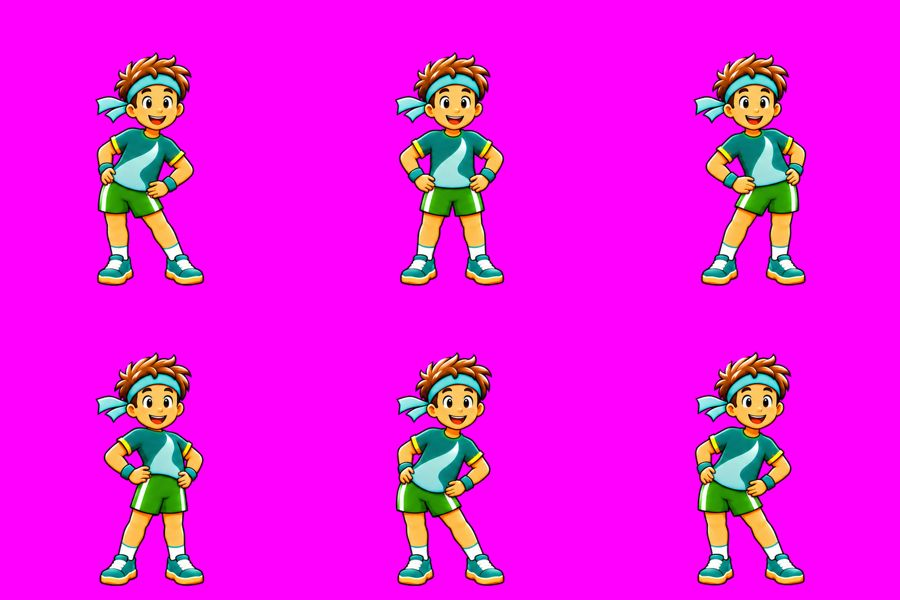
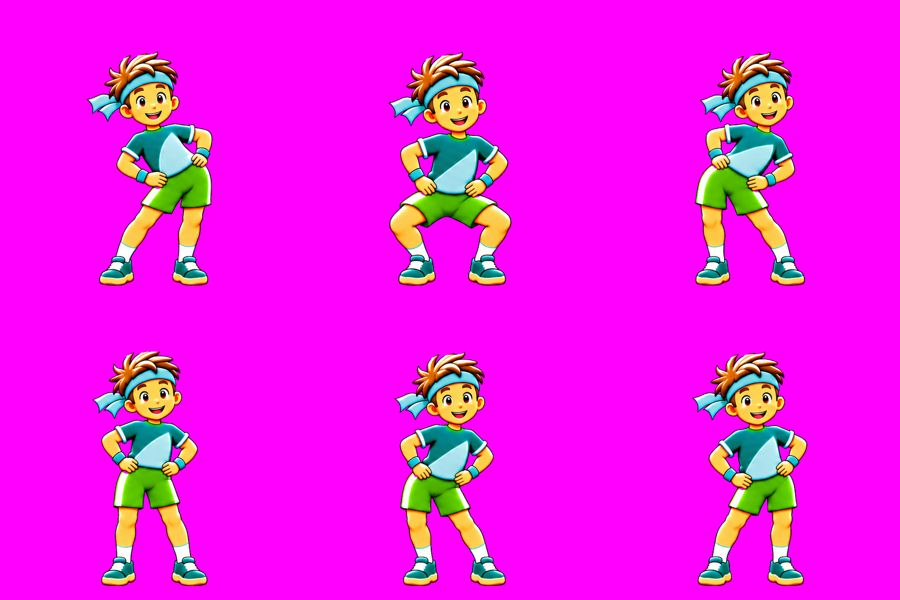
0.31.3: clean redrawn wu_hip_circles
Claude-Session: https://claude.ai/code/session_015MgUfxYvuaf2H4JGRA2gxD

diff --git a/web/sw.js b/web/sw.js
@@ -1,5 +1,5 @@
 // Offline-first service worker. VERSION is kept equal to version.json by scripts/bump-version.mjs (a unit test enforces it).
-const VERSION = '0.31.2';
+const VERSION = '0.31.3';
 const CACHE = `stepup-${VERSION}`;
 const SHELL = ['./', 'index.html', 'manifest.webmanifest', 'version.json', 'icon.svg', 'css/packs.css', 'css/app.css',
   'js/app.js', 'js/routePlan.js', 'js/planner.js', 'js/planApi.js', 'js/ui/mapScreen.js', 'js/ui/planner.js', 'js/theme-boot.js', 'js/util.js', 'js/i18n.js', 'js/native.js', 'js/icons.js', 'js/brand.js', 'js/brandData.js', 'js/iconData.js', 'js/geo.js', 'js/workout.js', 'js/metronome.js', 'js/cadence.js', 'js/audio.js', 'js/format.js', 'js/store.js', 'js/ui/home.js', 'js/plan.js', 'js/indicators.js', 'js/appVersion.js', 'js/art.js', 'js/voice.js', 'js/records.js', 'js/facts.js', 'js/actions.js', 'js/guide.js', 'js/strings08.js', 'js/strings09.js', 'js/strings10.js', 'js/strings11.js', 'js/appShare.js', 'js/changelog.js', 'js/ui/shareApp.js', 'js/ui/whatsnew.js', 'js/permissions.js', 'js/ui/permissions.js', 'js/characterData.js', 'js/puppetRig.js', 'js/ui/puppet.js', 'js/ui/character.js', 'art/character/walk.webp', 'art/character/run.webp', 'art/character/pose-idle.webp', 'art/character/pose-jump.webp', 'art/character/pose-cheer.webp', 'art/character/pose-wave.webp', 'art/character/pose-rest.webp', 'art/character/pose-stretch.webp', 'art/character/pose-medal.webp', 'art/character/pose-trophy.webp', 'art/character/pose-podium.webp', 'art/character/pose-point.webp', 'art/character/pose-think.webp', 'art/character/pose-sit.webp', 'art/character/pose-sleep.webp', 'art/character/pose-rain.webp', 'js/weatherAnim.js', 'js/weatherAnimData.js', 'js/ui/skynow.js', 'js/ui/hourdetail.js', 'js/ui/progress.js', 'js/ui/imap.js', 'js/ui/mapviewer.js', 'js/ui/marks.js', 'js/exercises.js', 'js/exerciseData.js', 'js/ui/exercises.js', 'js/strings12.js', 'js/ui/directions.js', 'js/nav.js', 'js/ui/weather.js', 'art/weather-anim/clear_day.webp', 'art/weather-anim/clear_night.webp', 'art/weather-anim/drizzle_day.webp', 'art/weather-anim/fog_day.webp', 'art/weather-anim/freezing_rain_day.webp', 'art/weather-anim/hail_day.webp', 'art/weather-anim/heavy_rain_day.webp', 'art/weather-anim/mostly_clear_day.webp', 'art/weather-anim/mostly_clear_night.webp', 'art/weather-anim/overcast_day.webp', 'art/weather-anim/partly_cloudy_day.webp', 'art/weather-anim/partly_cloudy_night.webp', 'art/weather-anim/rain_day.webp', 'art/weather-anim/snow_day.webp', 'art/weather-anim/thunderstorm_day.webp', 'js/ui/guide.js', 'art/workout/banner-afternoon-dark.svg', 'art/workout/banner-afternoon-light.svg', 'art/workout/banner-evening-dark.svg', 'art/workout/banner-evening-light.svg', 'art/workout/banner-morning-dark.svg', 'art/workout/banner-morning-light.svg', 'art/workout/banner-night-dark.svg', 'art/workout/banner-night-light.svg', 'art/workout/card-forest-dark.svg', 'art/workout/card-forest-light.svg', 'art/workout/card-ocean-dark.svg', 'art/workout/card-ocean-light.svg', 'art/workout/card-sunrise-dark.svg', 'art/workout/card-sunrise-light.svg', 'art/workout/count-1-dark.svg', 'art/workout/count-1-light.svg', 'art/workout/count-2-dark.svg', 'art/workout/count-2-light.svg', 'art/workout/count-3-dark.svg', 'art/workout/count-3-light.svg', 'art/workout/count-4-dark.svg', 'art/workout/count-4-light.svg', 'art/workout/count-5-dark.svg', 'art/workout/count-5-light.svg', 'art/workout/count-go-dark.svg', 'art/workout/count-go-light.svg', 'art/workout/hint-double-tap-dark.svg', 'art/workout/hint-double-tap-light.svg', 'art/workout/hint-volume-keys-dark.svg', 'art/workout/hint-volume-keys-light.svg', 'js/ui/workoutShare.js', 'js/shareCard.js', 'js/metrics.js', 'js/gpx.js', 'js/daypart.js', 'js/challenge.js', 'art/celebrate/avatar-frame-dark.svg', 'art/celebrate/avatar-frame-light.svg', 'art/celebrate/confetti-circle-dark.svg', 'art/celebrate/confetti-circle-light.svg', 'art/celebrate/confetti-curl-dark.svg', 'art/celebrate/confetti-curl-light.svg', 'art/celebrate/confetti-rectangle-dark.svg', 'art/celebrate/confetti-rectangle-light.svg', 'art/celebrate/confetti-star-dark.svg', 'art/celebrate/confetti-star-light.svg', 'art/celebrate/confetti-triangle-dark.svg', 'art/celebrate/confetti-triangle-light.svg', 'art/celebrate/distance-record-dark.svg', 'art/celebrate/distance-record-light.svg', 'art/celebrate/fastest-kilometre-dark.svg', 'art/celebrate/fastest-kilometre-light.svg', 'art/celebrate/forest-dark.svg', 'art/celebrate/forest-light.svg', 'art/celebrate/laurel-dark.svg', 'art/celebrate/laurel-light.svg', 'art/celebrate/longest-streak-dark.svg', 'art/celebrate/longest-streak-light.svg', 'art/celebrate/medal-dark.svg', 'art/celebrate/medal-light.svg', 'art/celebrate/most-workouts-week-dark.svg', 'art/celebrate/most-workouts-week-light.svg', 'art/celebrate/ocean-dark.svg', 'art/celebrate/ocean-light.svg', 'art/celebrate/pace-record-dark.svg', 'art/celebrate/pace-record-light.svg', 'art/celebrate/podium-floor-dark.svg', 'art/celebrate/podium-floor-light.svg', 'art/celebrate/podium-steps-dark.svg', 'art/celebrate/podium-steps-light.svg', 'art/celebrate/rays-dark.svg', 'art/celebrate/rays-light.svg', 'art/celebrate/ribbon-dark.svg', 'art/celebrate/ribbon-light.svg', 'art/celebrate/sunrise-dark.svg', 'art/celebrate/sunrise-light.svg', 'art/celebrate/trophy-dark.svg', 'art/celebrate/trophy-light.svg', 'js/podiumCard.js', 'js/ui/podium.js', 'js/mapView.js', 'js/ui/maptiles.js', 'js/backup.js', 'js/ui/backup.js', 'art/badges/almost-distance-dark.svg', 'art/badges/almost-distance-light.svg', 'art/badges/almost-record-dark.svg', 'art/badges/almost-record-light.svg', 'art/badges/faster-last-dark.svg', 'art/badges/faster-last-light.svg', 'art/badges/fastest-km-dark.svg', 'art/badges/fastest-km-light.svg', 'art/badges/new-record-dark.svg', 'art/badges/new-record-light.svg', 'art/badges/passed-distance-dark.svg', 'art/badges/passed-distance-light.svg', 'art/onboarding/caught-up-dark.svg', 'art/onboarding/caught-up-light.svg', 'art/onboarding/no-plan-dark.svg', 'art/onboarding/no-plan-light.svg', 'art/onboarding/no-routes-dark.svg', 'art/onboarding/no-routes-light.svg', 'art/onboarding/no-workouts-dark.svg', 'art/onboarding/no-workouts-light.svg', 'art/onboarding/offline-dark.svg', 'art/onboarding/offline-light.svg', 'art/onboarding/welcome-dark.svg', 'art/onboarding/welcome-light.svg', 'art/weather/clear-dark.svg', 'art/weather/clear-light.svg', 'art/weather/cloudy-dark.svg', 'art/weather/cloudy-light.svg', 'art/weather/cold-dark.svg', 'art/weather/cold-light.svg', 'art/weather/hot-dark.svg', 'art/weather/hot-light.svg', 'art/weather/rain-dark.svg', 'art/weather/rain-light.svg', 'art/weather/windy-dark.svg', 'art/weather/windy-light.svg', 'js/update.js', 'js/strings07.js', 'js/ui/about.js', 'js/strings06.js', 'js/ui/plan.js', 'js/schedule.js', 'js/widgetData.js', 'js/syncNative.js', 'js/strings05.js', 'js/route.js', 'js/routeReco.js', 'js/strings04.js', 'js/ui/routes.js', 'js/ui/livemap.js', 'js/forecast.js', 'js/reco.js', 'js/weatherApi.js', 'js/strings03.js', 'js/ui/reco.js', 'js/stats.js', 'js/steps.js', 'js/effort.js', 'js/reminders.js', 'js/alerts.js', 'js/search.js', 'js/charts.js', 'js/reminderLoop.js', 'js/strings02.js', 'js/ui/dashboard.js', 'js/ui/alerts.js', 'js/ui/search.js', 'js/ui/notify.js', 'js/ui/settings.js', 'js/ui/history.js', 'js/ui/workout.js', 'js/ui/rhythm.js',

diff --git a/web/js/changelog.js b/web/js/changelog.js
@@ -1,5 +1,8 @@
 // "What is new", in the app's two languages: user-facing bullets only, newest first. docs/CHANGELOG.md is the developer copy (a unit test keeps the two in step).
 export const CHANGES = [
+  { v: '0.31.3',
+    en: ['Redrawn hip circles animation, with a clearer circle.'],
+    he: ['אנימציה מחודשת לסיבובי אגן, עם סיבוב ברור יותר.'] },
   { v: '0.31.2',
     en: ['Redrawn animations for the chest opener, ankle rolls and calf raises.'],
     he: ['אנימציות מחודשות לפתיחת החזה, לסיבובי קרסול ולהרמות תאומים.'] },

diff --git a/web/js/appVersion.js b/web/js/appVersion.js
@@ -1,2 +1,2 @@
 // The version of the code that is running (kept equal to version.json by scripts/bump-version.mjs; a unit test enforces it).
-export const APP_VERSION = '0.31.2';
+export const APP_VERSION = '0.31.3';

diff --git a/docs/CONTEXT.md b/docs/CONTEXT.md
@@ -6,8 +6,8 @@ Read this first in a new session. It says what the product is, where everything 
 **StepUp** (repo `ohadsam/distance_analyzer`): a walking and running tracker. One vanilla-JS web app (`web/`, no build step, no runtime dependencies) shipped as a **PWA** (GitHub Pages) and as a thin **Android WebView app** (`android/`, same `web/` folder as assets). Hebrew (RTL) is the default, English is chosen in Settings. No server, no account; data stays on the device. Branch `main` is the primary branch.
 Owner's standing rules live in `.claude/skills/release-checklist/SKILL.md` (section 0). Requests and their status: `docs/REQUESTS.md`. Plan: `docs/ROADMAP.md`.
 
-## Status (0.31.2)
-Done: **looping full-figure drawn animations for all 24 exercises (0.31.2; still weak: hip circles, a modest calf raise and chest), mark point, interactive maps everywhere (zoom, address search, measuring, km markers), turn-by-turn navigation with voice, written directions, progress bars, warm-up / cool-down exercises, effort chart with advice, broader global search (0.29.0)**, **a Weather card always on Home and tappable weather charts showing the hour's temperature / humidity / rain (0.28.0)**, **measuring starts when the run / walk really starts (movement detection), the weather screen with hour-by-hour humidity / rain for any place or route, animated charts (0.27.0)**, **animated weather pictures for the sky now (Home day card, Recommendations) from the illustrator's 15 animations (0.26.0)**, **steps counted all day by a quiet foreground service (the background alarm could never read the sensor) - 0.25.2, needs a phone to confirm**, **the steps widget refreshes by itself (every 15 min, on leaving the app, after restart or update) - 0.25.1, needs a phone to confirm**, **share sheet (WhatsApp, e-mail, share menu, copy) and a "what is new" window (0.25.0)**, **web app updates itself (fresh files for a new service worker, one automatic reload) (0.24.1)**, **permissions screen + start-up sheet, map / weather / planner on by default with automatic location, in-app update that installs over the app (0.24.0)**, **an illustrated character with walk / run strips and still poses (0.23.0)**, **Trail from the designer brief (10 poses, per-pose joint pivots) (0.22.0)**, **Trail V5 (15 connected poses) with the countdown and the guide (0.21.0)**, **Trail as an athlete (kit V3) on the start cards, welcome, summary and the user guide (0.20.0)**, **redesigned single-colour icons, Trail (the logo-born companion character, 8 poses) on the start cards / welcome / summary, live speed gauge, active navigation icons, calm-animations switch (0.19.0)**, **user guide (interactive tour with screenshots), search over actions / your data / the guide, a clear live map, a quiet first-run home, map screen with distance measuring, route planner by address and distance (0.18.0)**, **workout visual kit: banners, workout cards, countdown numerals, hints, number icons (0.17.0)**, **choose your workout numbers, day card, history sort/records/GPX/share picture, hands-free, countdown, wide layout (0.16.0)**, **new minimal workout screen, background voice, stop hint, sunlight mode, weekly challenge + Sunday summary, kit podium (0.15.0)**, **opt-in street map, battery optimisation, record celebration with victory photo (0.14.0)**, **backup/restore, week-bars widget, monthly summary (0.13.0)**, **rhythm coach and charts in the kit's look, folded filters, spoken cues (0.12.0)**, **kit art integrated: empty states, weather banner, indication badges, widget backgrounds, Android 12 splash (0.11.0)**, **update check, newest-APK download and share from inside the app (0.10.0)**, **two more Android widgets (last workout, next session) with a designed background (0.9.1, launcher verification pending)**, **bottom navigation, collapsible settings, lighter first dashboard, welcome card (0.9.0)**, **live in-workout indications (records, last time, faster km - 0.8.1)**, **training plans (build, week view, auto-match, gentle catch-up, reminders - 0.8.1)**, Android home-screen widgets (steps, weekly effort, measure now - 0.7.0, launcher verification pending)**, Android background (screen-off tracking, all-day steps, notifications when closed - 0.6.0, real-device verification pending)**, quick actions, routes (save, recognise, progress, suggestions, one-time, follow with ghost), tile-less live map (0.5.0)**, recommendations by weather and routine (0.4.0, opt-in network)**, workout mode (GPS distance/pace/splits, pause, lock, resume), smart rhythm coach (metronome + breathing guide), history, design foundation + StepUp brand, effort bar by age and history with deviation alerts, quality-weighted steps, dashboard (customisable widgets, filters, drill-down), alerts inbox, global search, reminders (fixed + smart nudges, while the app is open), manual weather per workout with weather-aware stats.
+## Status (0.31.3)
+Done: **looping full-figure drawn animations for all 24 exercises (0.31.3; the calf raise and the chest opener are still modest), mark point, interactive maps everywhere (zoom, address search, measuring, km markers), turn-by-turn navigation with voice, written directions, progress bars, warm-up / cool-down exercises, effort chart with advice, broader global search (0.29.0)**, **a Weather card always on Home and tappable weather charts showing the hour's temperature / humidity / rain (0.28.0)**, **measuring starts when the run / walk really starts (movement detection), the weather screen with hour-by-hour humidity / rain for any place or route, animated charts (0.27.0)**, **animated weather pictures for the sky now (Home day card, Recommendations) from the illustrator's 15 animations (0.26.0)**, **steps counted all day by a quiet foreground service (the background alarm could never read the sensor) - 0.25.2, needs a phone to confirm**, **the steps widget refreshes by itself (every 15 min, on leaving the app, after restart or update) - 0.25.1, needs a phone to confirm**, **share sheet (WhatsApp, e-mail, share menu, copy) and a "what is new" window (0.25.0)**, **web app updates itself (fresh files for a new service worker, one automatic reload) (0.24.1)**, **permissions screen + start-up sheet, map / weather / planner on by default with automatic location, in-app update that installs over the app (0.24.0)**, **an illustrated character with walk / run strips and still poses (0.23.0)**, **Trail from the designer brief (10 poses, per-pose joint pivots) (0.22.0)**, **Trail V5 (15 connected poses) with the countdown and the guide (0.21.0)**, **Trail as an athlete (kit V3) on the start cards, welcome, summary and the user guide (0.20.0)**, **redesigned single-colour icons, Trail (the logo-born companion character, 8 poses) on the start cards / welcome / summary, live speed gauge, active navigation icons, calm-animations switch (0.19.0)**, **user guide (interactive tour with screenshots), search over actions / your data / the guide, a clear live map, a quiet first-run home, map screen with distance measuring, route planner by address and distance (0.18.0)**, **workout visual kit: banners, workout cards, countdown numerals, hints, number icons (0.17.0)**, **choose your workout numbers, day card, history sort/records/GPX/share picture, hands-free, countdown, wide layout (0.16.0)**, **new minimal workout screen, background voice, stop hint, sunlight mode, weekly challenge + Sunday summary, kit podium (0.15.0)**, **opt-in street map, battery optimisation, record celebration with victory photo (0.14.0)**, **backup/restore, week-bars widget, monthly summary (0.13.0)**, **rhythm coach and charts in the kit's look, folded filters, spoken cues (0.12.0)**, **kit art integrated: empty states, weather banner, indication badges, widget backgrounds, Android 12 splash (0.11.0)**, **update check, newest-APK download and share from inside the app (0.10.0)**, **two more Android widgets (last workout, next session) with a designed background (0.9.1, launcher verification pending)**, **bottom navigation, collapsible settings, lighter first dashboard, welcome card (0.9.0)**, **live in-workout indications (records, last time, faster km - 0.8.1)**, **training plans (build, week view, auto-match, gentle catch-up, reminders - 0.8.1)**, Android home-screen widgets (steps, weekly effort, measure now - 0.7.0, launcher verification pending)**, Android background (screen-off tracking, all-day steps, notifications when closed - 0.6.0, real-device verification pending)**, quick actions, routes (save, recognise, progress, suggestions, one-time, follow with ghost), tile-less live map (0.5.0)**, recommendations by weather and routine (0.4.0, opt-in network)**, workout mode (GPS distance/pace/splits, pause, lock, resume), smart rhythm coach (metronome + breathing guide), history, design foundation + StepUp brand, effort bar by age and history with deviation alerts, quality-weighted steps, dashboard (customisable widgets, filters, drill-down), alerts inbox, global search, reminders (fixed + smart nudges, while the app is open), manual weather per workout with weather-aware stats.
 Not done / known limits: the smart "no movement" nudge works only while the app is open; Android background features are verified only by a stand-in bridge and CI; internet is used only on request: the weather forecast (opt-in, Open-Meteo), update check (GitHub), map tiles (opt-in, OpenStreetMap) and the route planner (opt-in, four public services) - its live answer is unverified (sandbox blocks the host); automatic weather *per workout* (history) is still not built; the route planner's live answers (Nominatim, FOSSGIS OSRM, Open-Meteo elevation, Overpass) are only verified against stand-ins because the sandbox blocks those hosts, and its crossing / sidewalk reading depends on how well OpenStreetMap is mapped where you are; Kotlin is only compiled in CI; sensor thresholds are tuned on synthetic data, not a real run; steps are estimated from tracked workouts (no passive counter yet).
 
 ## How to run and verify

diff --git a/docs/PENDING_CHATGPT_PROMPTS.md b/docs/PENDING_CHATGPT_PROMPTS.md
@@ -38,3 +38,4 @@ Flow: prompt written here → owner pastes it in ChatGPT → owner returns the r
 - #20 partly returned: wu_skips and cd_glute integrated in 0.31.1; still open: wu_calf_raises, wu_hip_circles, wu_ankle_rolls, cd_chest (ask ChatGPT again for these four).
 - #20 round 3: cd_chest, wu_ankle_rolls, wu_calf_raises integrated in 0.31.2; wu_hip_circles rejected (white arrows drawn inside the frames) - ask again for a clean one with a visible hip circle and no annotations.
 - #21 (`docs/prompts/ROUND21_HIP_CIRCLES_PROMPT.md`): a clean wu_hip_circles (no arrows, a hip shift of at least 40 px) - pending user send; integrate with scripts/make-exercise-sprites.py and bump.
+- #21 returned and integrated in 0.31.3 (clean wu_hip_circles). No exercise prompt is pending; only optional polish of calf raises / chest.

diff --git a/docs/CHANGELOG.md b/docs/CHANGELOG.md
@@ -1,5 +1,8 @@
 # Changelog
 
+## 0.31.3
+- `wu_hip_circles` replaced by the illustrator's clean round-5 redraw (no annotation arrows; hips left, down, right, back around the circle). All 24 exercises now use full-figure drawings.
+
 ## 0.31.2
 - `cd_chest`, `wu_ankle_rolls` and `wu_calf_raises` replaced by the illustrator's round-3 redraws (arms behind the back, a clear lifted foot with a hand on the wall, heels rising). `wu_hip_circles` was NOT taken: the redraw has white annotation arrows inside the frames, so the 0.31.0 drawing stays until a clean one arrives. Calf raises and chest are better but still modest (the heel lift is small, the clasped hands are not clearly visible).
 
